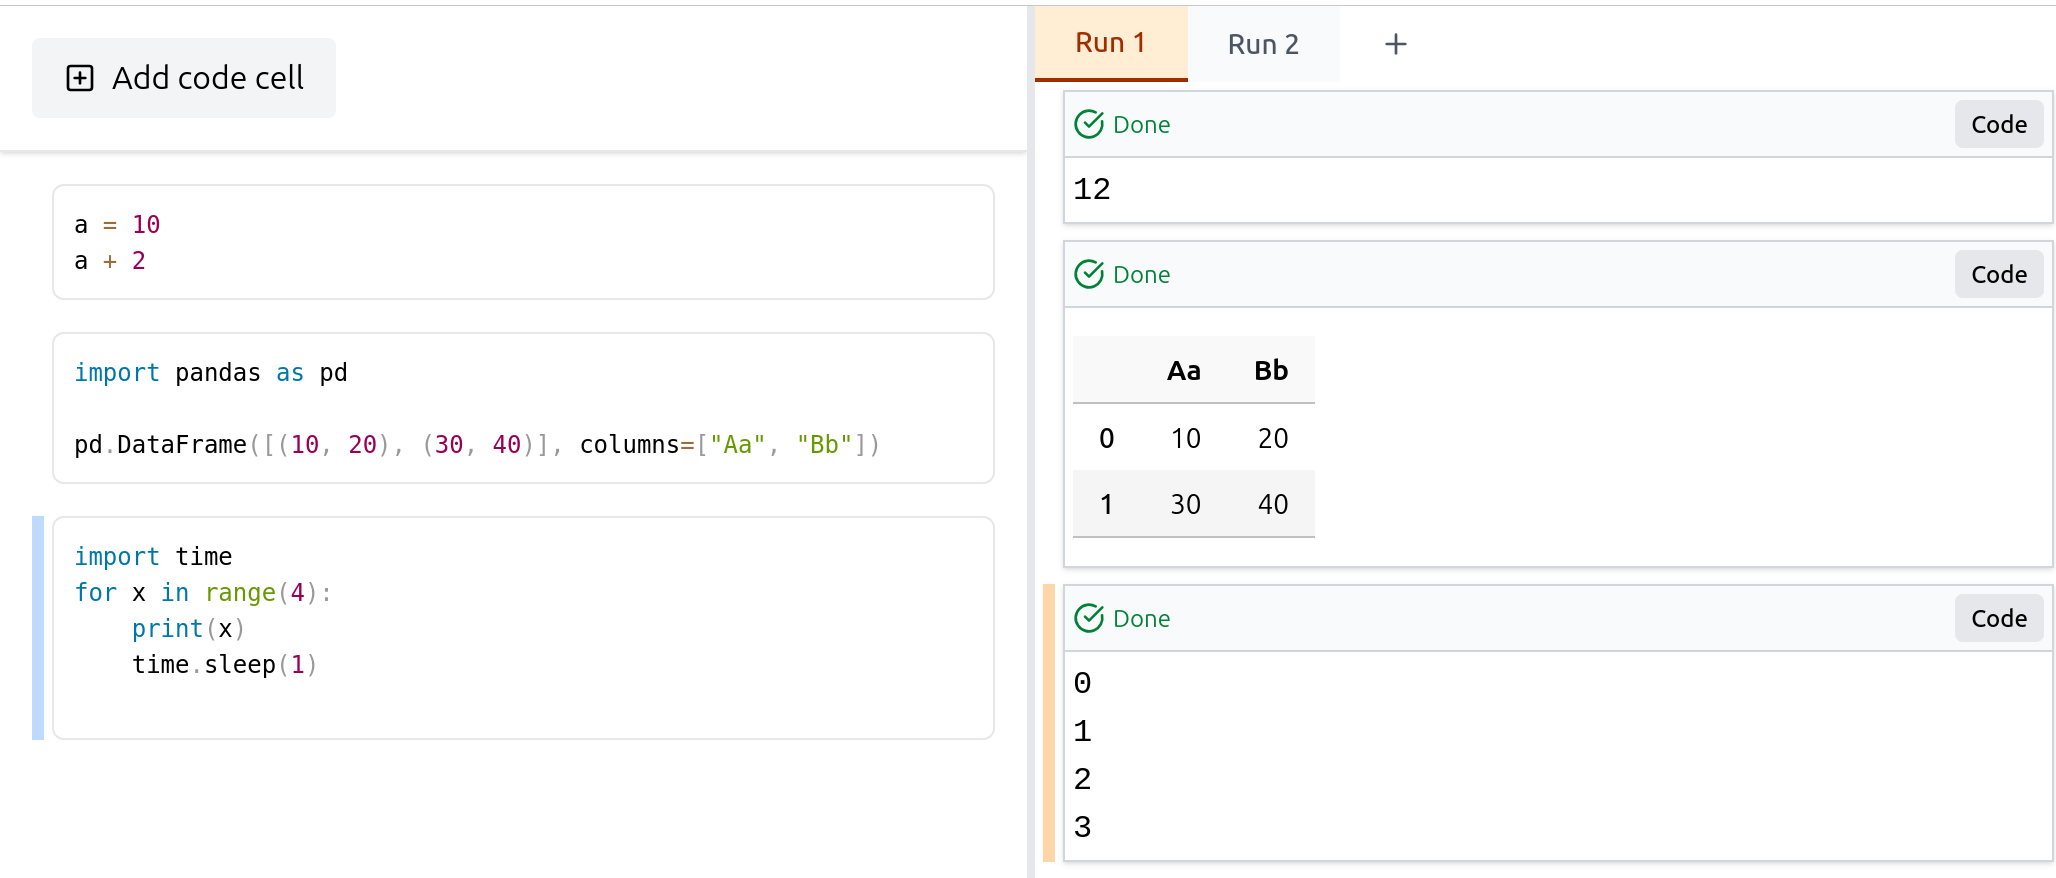
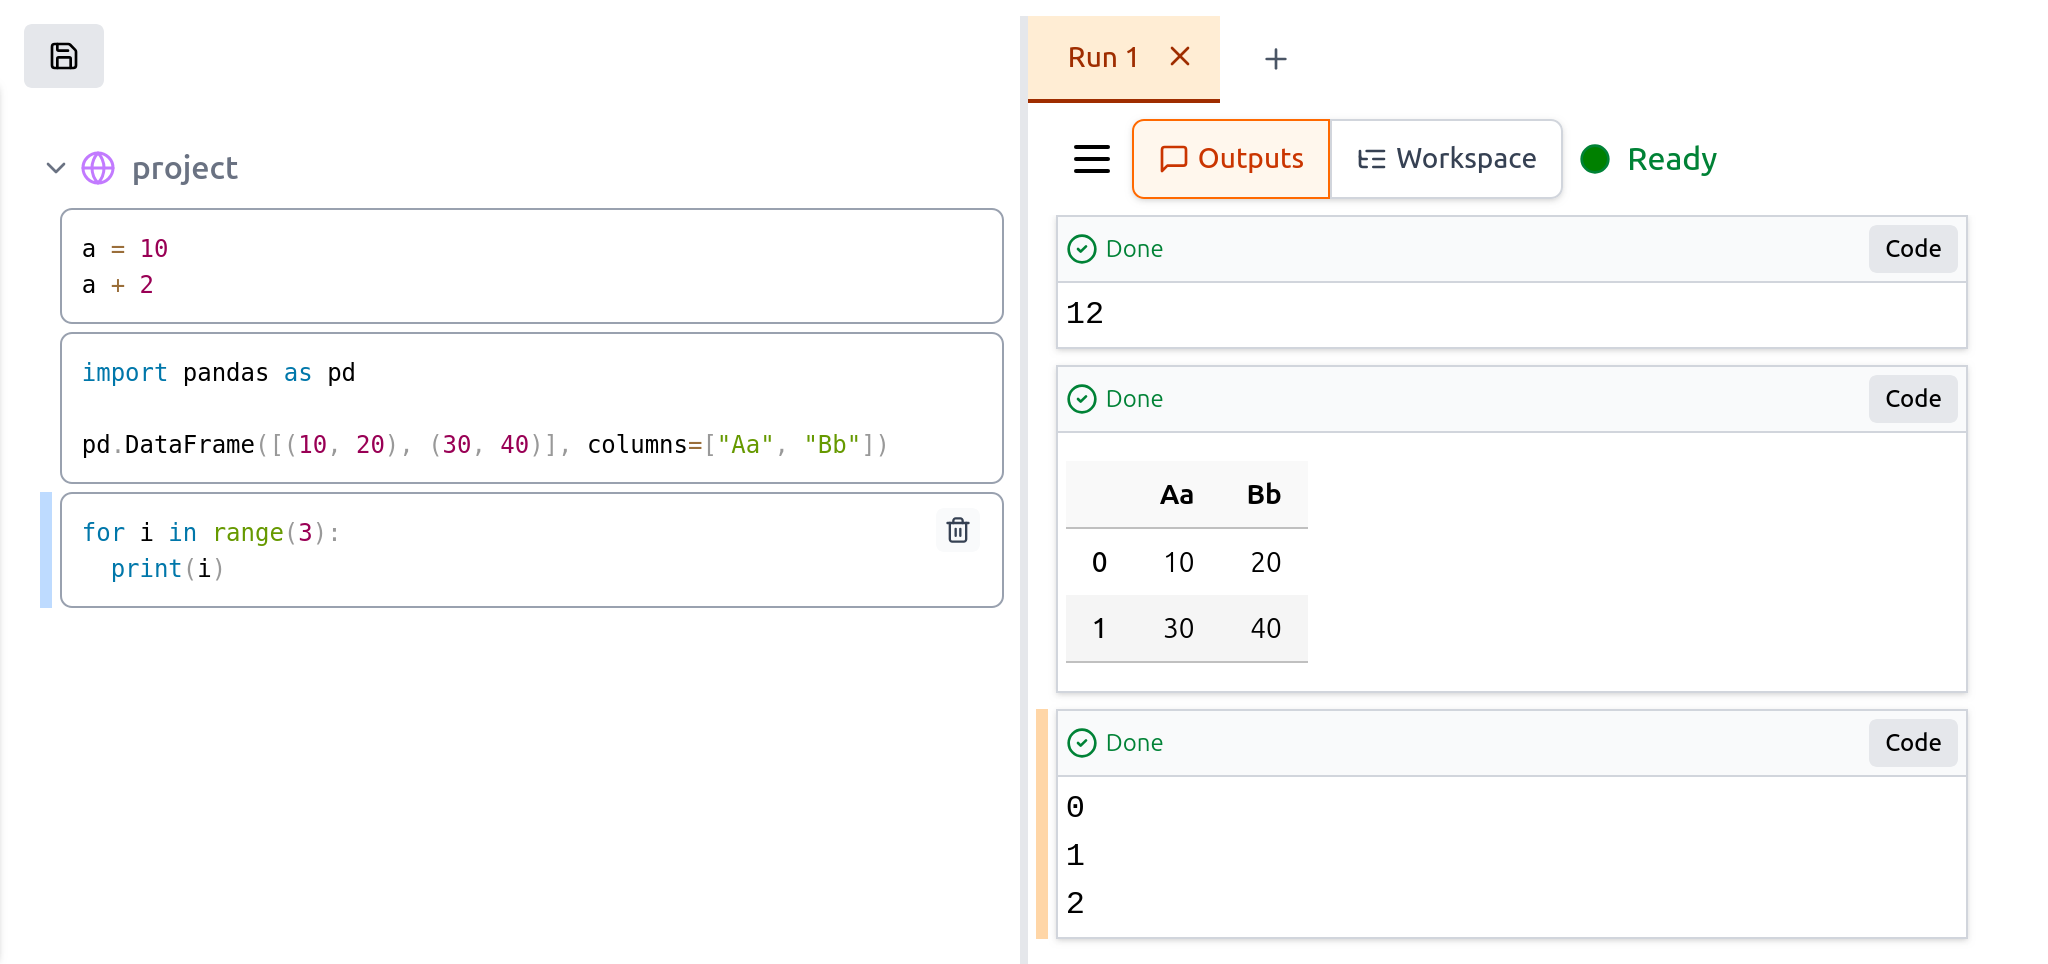
Fixed displaying active output cell

diff --git a/browser/ui/src/core/actions.ts b/browser/ui/src/core/actions.ts
@@ -64,6 +64,7 @@ export function runCode(
   pushNotification: PushNotification,
 ) {
   const node = extractRunNode(notebook.editor_root, path);
+  const calledId = path[path.length - 1];
   let run_id = notebook.current_run_id;
   let flag: OutputCellFlag = "Pending";
   if (run_id === null) {
@@ -96,6 +97,7 @@ export function runCode(
       values: [],
       flag,
       editor_node: node,
+      called_id: calledId,
     },
     run_id: run_id,
   });
@@ -105,6 +107,7 @@ export function runCode(
     run_id: run_id,
     cell_id: cell_id,
     editor_node: node,
+    called_id: calledId,
   });
 }
 

diff --git a/browser/ui/src/components/OutputCell.tsx b/browser/ui/src/components/OutputCell.tsx
@@ -113,7 +113,7 @@ const OutputCellView: React.FC<{
 
   return (
     <div
-      className={`border-l-6 pl-1 ${notebook.selected_editor_node_id == props.cell.editor_node.id ? "border-orange-200" : "border-white"}`}
+      className={`border-l-6 pl-1 ${notebook.selected_editor_node_id === props.cell.called_id ? "border-orange-200" : "border-white"}`}
     >
       <div ref={ref} className="border border-gray-300 shadow-sm mb-2 mr-6">
         {/* Smaller Status Bar */}

diff --git a/browser/ui/src/core/notebook.ts b/browser/ui/src/core/notebook.ts
@@ -64,6 +64,7 @@ export interface OutputCell {
   values: OutputValue[];
   flag: OutputCellFlag;
   editor_node: EditorNode;
+  called_id: EditorNodeId;
 }
 
 export type RunViewMode = "outputs" | "workspace";

diff --git a/browser/ui/src/core/messages.ts b/browser/ui/src/core/messages.ts
@@ -104,6 +104,7 @@ interface RunCodeMsg {
   run_id: RunId;
   cell_id: EditorNodeId;
   editor_node: EditorNode;
+  called_id: EditorNodeId;
 }
 
 interface LoadNotebookMsg {

diff --git a/tests/conftest.py b/tests/conftest.py
@@ -65,16 +65,22 @@ class Kernel:
         self.run_id = run_id
         self.last_cell_id = None
         self.last_editor_node = None
+        self.last_called_id = None
         self.last_update = None
         self.editor_root_id = str(uuid.uuid4())
 
-    def run_code(self, code):
+    def run_code(self, code, called_id=None):
         cell_id = str(uuid.uuid4())
         if isinstance(code, str):
-            children = [{"type": "Cell", "id": str(uuid.uuid4()), "code": code}]
+            called_id = str(uuid.uuid4())
+            children = [{"type": "Cell", "id": called_id, "code": code}]
         elif isinstance(code, list):
+            if called_id is None:
+                raise Exception("Called ID not provided when code is list")
             children = code
         else:
+            if called_id is None:
+                called_id = code["id"]
             children = [code]
         editor_node = {
             "name": "",
@@ -83,6 +89,7 @@ class Kernel:
             "children": children,
         }
         self.last_editor_node = editor_node
+        self.last_called_id = called_id
         outputs = []
         self.client.send_message(
             {
@@ -92,6 +99,7 @@ class Kernel:
                 "code": code,
                 "cell_id": cell_id,
                 "editor_node": editor_node,
+                "called_id": called_id,
             }
         )
         while True:

diff --git a/twinsong/src/notebook.rs b/twinsong/src/notebook.rs
@@ -114,15 +114,17 @@ pub(crate) struct OutputCell {
     values: Vec<OutputValue>,
     flag: OutputFlag,
     editor_node: EditorGroup,
+    called_id: EditorId,
 }
 
 impl OutputCell {
-    pub fn new(id: OutputCellId, editor_node: EditorGroup) -> Self {
+    pub fn new(id: OutputCellId, editor_node: EditorGroup, called_id: EditorId) -> Self {
         OutputCell {
             id,
             values: Vec::new(),
             flag: OutputFlag::Running,
             editor_node,
+            called_id,
         }
     }
 }

diff --git a/twinsong/src/reactor.rs b/twinsong/src/reactor.rs
@@ -82,7 +82,7 @@ pub(crate) fn run_code(state: &mut AppState, msg: RunCodeMsg) -> anyhow::Result<
     let notebook = state.find_notebook_by_id_mut(msg.notebook_id)?;
     let run = notebook.find_run_by_id_mut(msg.run_id)?;
     let code = msg.editor_node.to_code_group();
-    run.add_output_cell(OutputCell::new(msg.cell_id, msg.editor_node));
+    run.add_output_cell(OutputCell::new(msg.cell_id, msg.editor_node, msg.called_id));
     run.queue_increment();
     if let Some(kernel) = run
         .kernel_id()

diff --git a/tests/test_http.py b/tests/test_http.py
@@ -115,6 +115,7 @@ def test_save_notebook_plain(client):
             "output_cells": [
                 {
                     "editor_node": k.last_editor_node,
+                    "called_id": k.last_called_id,
                     "flag": "Success",
                     "id": cell_id,
                     "values": [

diff --git a/twinsong/src/client_messages.rs b/twinsong/src/client_messages.rs
@@ -41,6 +41,7 @@ pub(crate) struct RunCodeMsg {
     pub run_id: RunId,
     pub cell_id: OutputCellId,
     pub editor_node: EditorGroup,
+    pub called_id: EditorId,
 }
 
 #[derive(Debug, Deserialize)]
